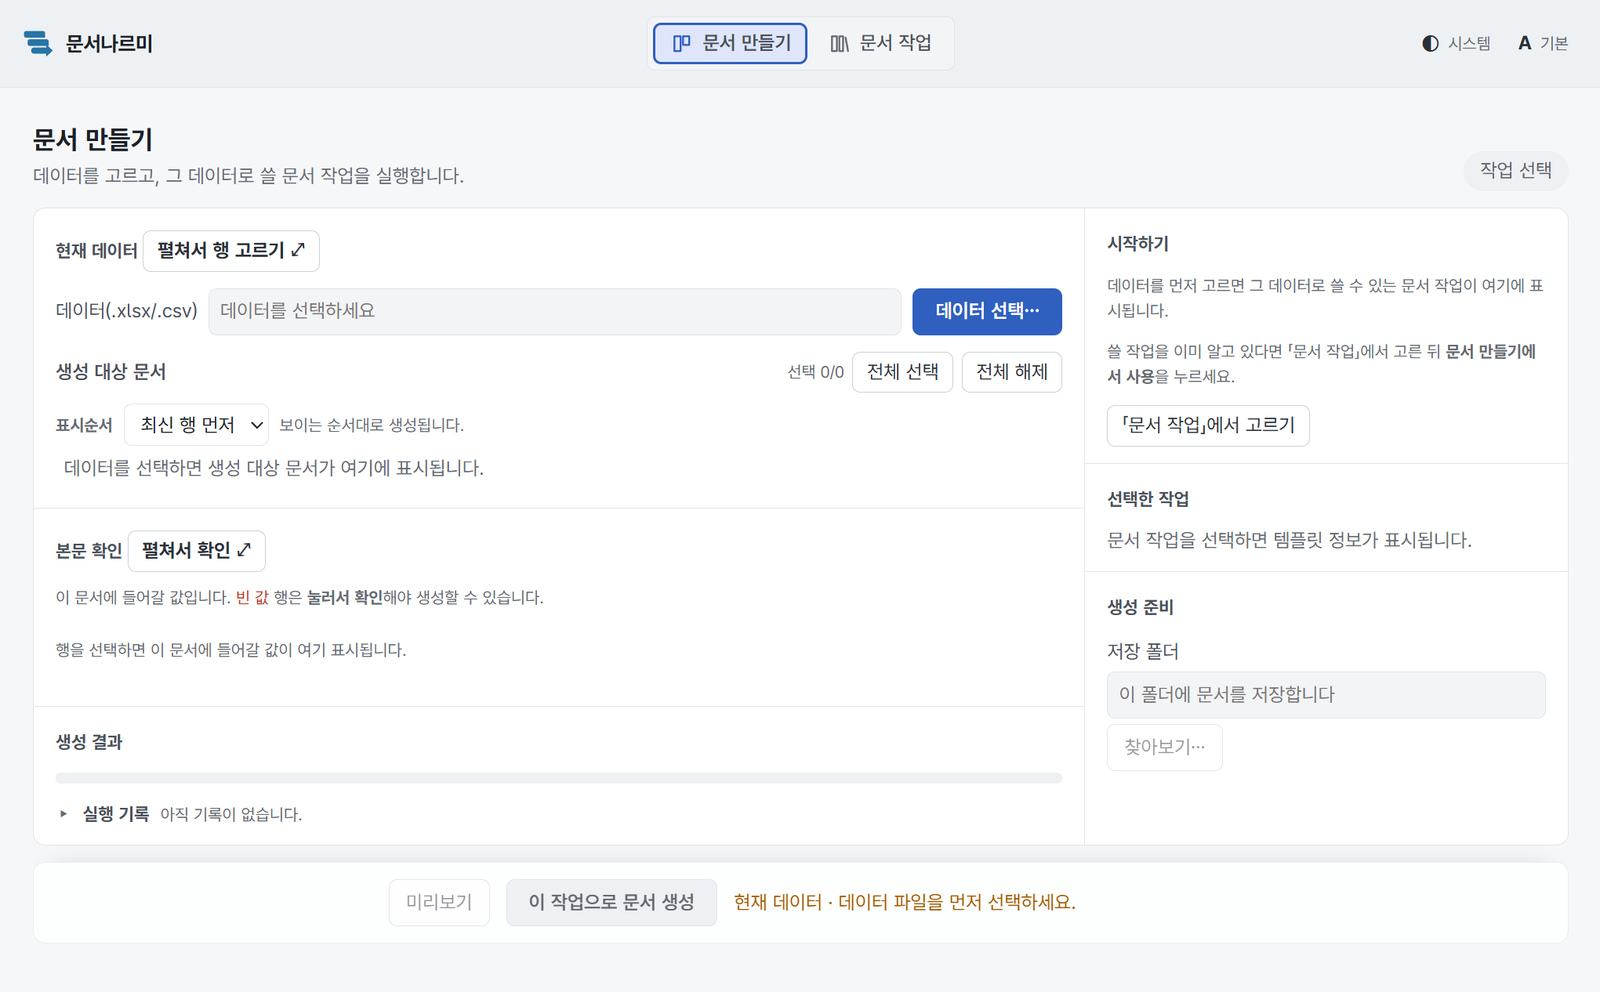
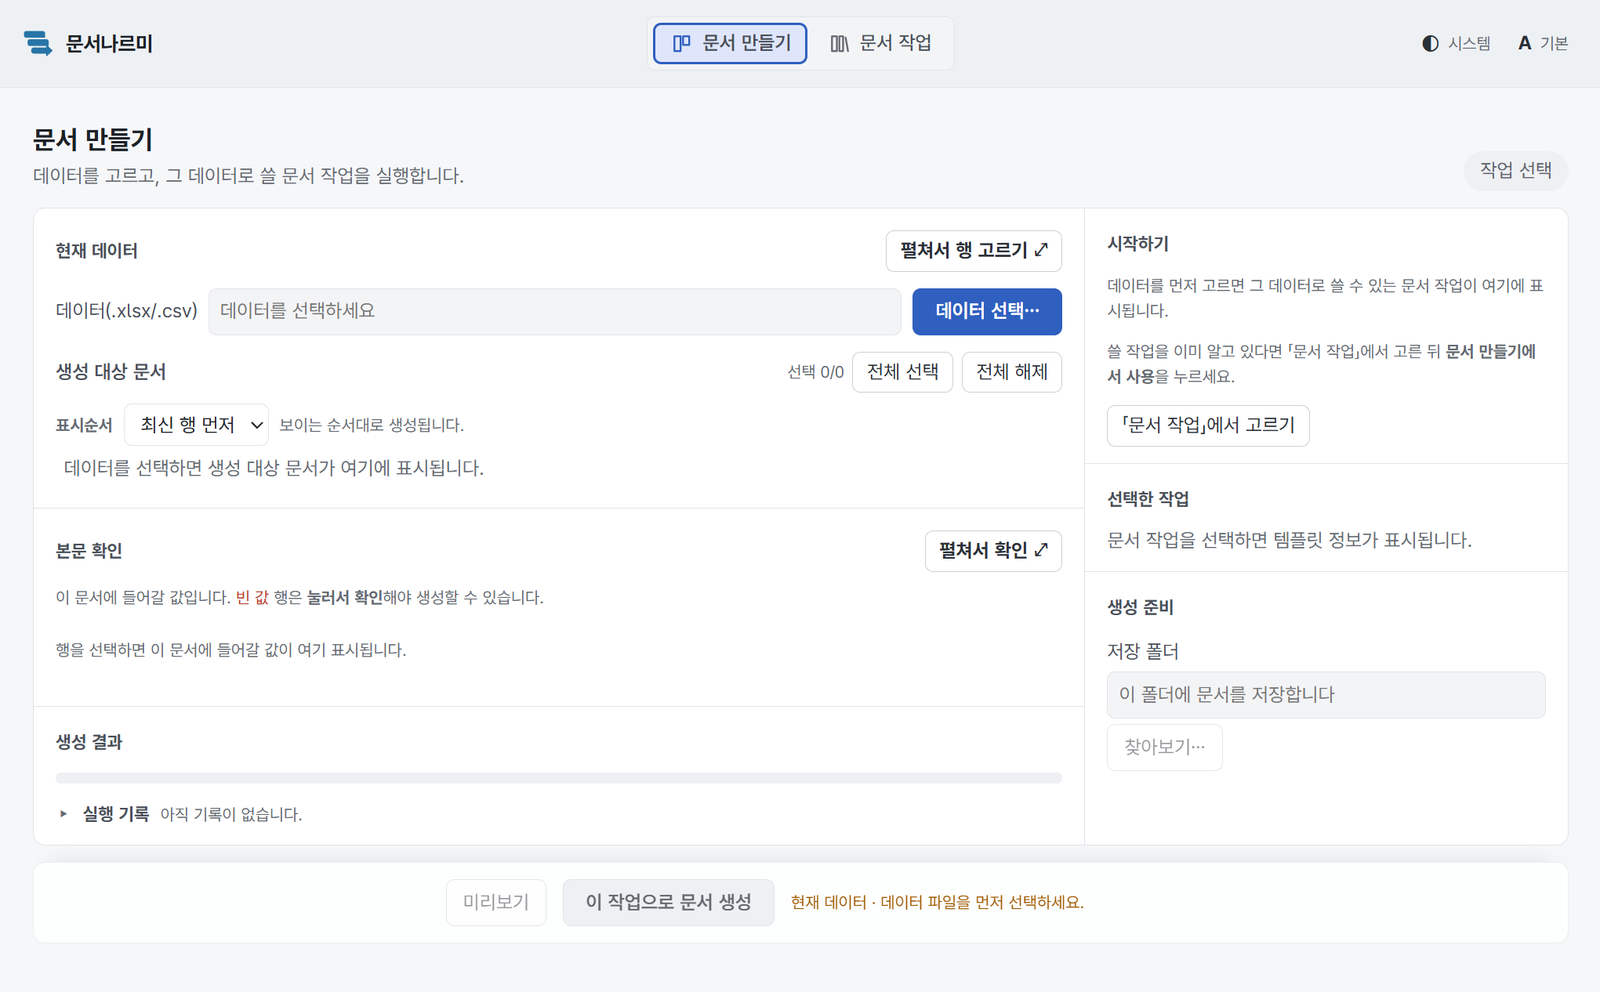
fix: 기준면은 같은 상자로 재고, 빈 문안은 자리도 비운다 (#331)
Codex 리뷰 R5(P2). 앞 커밋이 두 표면에 같은 컬럼 템플릿을 물렸지만 버튼은 여전히 구분선에
닿지 않았다. 실측하니 **원인이 셋**이었고 지적된 「6~16px」은 그 합이었다.

**① 재는 상자가 달랐다**(6px). `.session-actionbar` 는 가로 패딩 16px 안쪽에서 트랙을
계산하고 `.data-grid` 는 거의 전폭에서 계산한다. 가로 패딩을 트랙 밖으로 빼고(`12px 0`),
카드의 좌 여백은 트랙 **안**의 `.actionbar-row` 가 진다.

**② 빈 문안이 자리를 차지했다**(12px). `#jobGate` 는 폭 0 이어도 flex 항목으로 남아 그 앞의
`gap:12px` 이 살아 있었다 — 마지막 버튼만 그만큼 물러선다.

**③ 렌더러가 정적 선언을 지우고 있었다.** `gate.className = "muted"` 가 마크업의
`class="muted capnote"` 를 매 렌더에 덮어써 `capnote` 가 벗겨졌다. ②의 규칙이 붙을 곳이
없던 이유이자, 게이트 문안이 선언과 달리 **캡션 크기가 아닌 채로** 그려지던 이유다.
마크업이 선언한 것을 지운 뒤 그 선언을 근거로 규칙을 짜면 둘 다 거짓이 된다.

실측(구분선 x − 액션바에서 눈에 보이는 마지막 것): 고치기 전 두 폭 모두 버튼 기준 -18px →
고친 뒤 0px. 재캡처한 `08-session-panel` 의 실 픽셀로도 -1px(테두리 1px).

**프로브가 절반만 겨누고 있었다.** 처음엔 `.actionbar-row` 의 **상자**를 쟀는데 ②는 행의
오른쪽 끝을 그대로 두고 버튼만 물리므로 그 측정은 통과한다. 「눈에 보이는 마지막 자식」을
재도록 하고, 게이트 문안이 빈 상태(=생성이 열린 화면)도 함께 잰다. 세 원인을 각각 되돌려
셋 다 단언이 떨어지는 것을 확인했다.

같은 리뷰가 짚은 캡션 ⤢ 자리(#330 조치)도 이 프로브가 함께 지킨다 — 계산된 `display` 와
⤢ 오른쪽 끝 거리. 두 자리 다 규칙은 살아 있고 **어느 쪽이 이기는가**만 갈려 정적 검사가
못 보는 부류다.

Claude-Session: https://claude.ai/code/session_01MfcPFtvGgRnZhoHbowMH4i

diff --git a/web/css/job.css b/web/css/job.css
@@ -72,14 +72,20 @@
    `.data-grid` 의 형제라 패널 전폭인데, 겨누는 행동(미리보기·생성)의 입력은 전부 좌 열에
    있으므로 우 열 폭만큼 밀면 버튼이 자기 입력과 다른 열에 선다. 그래서 두 표면이 같은 컬럼
    템플릿(--data-grid-cols)을 공유하고, 액션바의 내용은 **1열 안에서** 우정렬한다. */
+/* 가로 패딩은 **트랙 밖**이다(리뷰 R5) — 패딩이 있으면 트랙이 패딩 뺀 폭에서 계산돼 1열
+   끝이 실제 구분선보다 6px 앞에서 끝난다(1180·1600px 실측 동일). 같은 템플릿을 공유해도
+   **재는 상자가 다르면** 기준면이 어긋난다. 카드의 좌 여백은 트랙 안의 행이 진다. */
 .session-actionbar{position:sticky;bottom:0;z-index:5;
   display:grid;grid-template-columns:var(--data-grid-cols);
-  margin-top:var(--sp-12);padding:var(--sp-12) var(--sp-16);
+  margin-top:var(--sp-12);padding:var(--sp-12) 0;
   border:1px solid color-mix(in srgb,var(--a-border) 62%,transparent);border-radius:var(--rad-surface);
   box-shadow:0 -8px 18px -14px var(--a-shadow)}
 /* 2열은 비워 둔다 — 행동은 좌 열에 서고 우 side-card 아래를 침범하지 않는다. */
 .actionbar-row{display:flex;align-items:center;gap:var(--sp-12);flex-wrap:wrap;
-  justify-content:flex-end}
+  justify-content:flex-end;padding-left:var(--sp-16)}
+/* 빈 게이트 문안은 **자리도 비운다**(리뷰 R5) — 폭 0 이라도 flex 항목으로 남으면 그 앞의
+   gap(12px)이 살아 마지막 버튼이 기준면에서 그만큼 물러선다. 실측으로 잡힌 자리다. */
+.actionbar-row>.capnote:empty{display:none}
 .bar{height:8px;background:var(--n-track);border-radius:var(--rad-pill);overflow:hidden;margin-top:var(--sp-12)}
 .bar>i{display:block;height:100%;width:0;background:var(--a-primary);transition:width .25s ease}
 .run-result{font-size:var(--fs-body);margin-top:var(--sp-8);font-weight:600;min-height:1.2em}

diff --git a/web/js/screens/job.js b/web/js/screens/job.js
@@ -969,7 +969,11 @@
     $("jobGenBtn").disabled = !g.enabled || generating;
     const gate = $("jobGate");
     gate.textContent = generating ? "" : gateStep(s, g) + g.text;
-    gate.className = "muted";
+    // 정적 선언(`class="muted capnote"`)을 **덮어쓰지 않는다**(리뷰 R5) — 여기서 "muted" 만
+    // 세우면 `capnote`(캡션급 크기)가 매 렌더에 조용히 벗겨지고, 빈 문안이 자리를 비우게 하는
+    // 규칙(`.actionbar-row>.capnote:empty`)도 붙을 곳을 잃는다. 마크업이 선언한 것을 지운 뒤
+    // 그 선언을 근거로 쓰는 규칙을 짜면 둘 다 거짓이 된다.
+    gate.className = "muted capnote";
     gate.style.color = g.level === "danger" ? "var(--a-danger)"
       : g.level === "warn" ? "var(--a-warn)" : "";
   }

diff --git a/src/hwpxfiller/webapp/app.py b/src/hwpxfiller/webapp/app.py
@@ -891,6 +891,52 @@ _JOB_DATA_FIRST_PROBE_JS = r"""
     };
     window.__push('job', snap);
     out.zones_shown = getComputedStyle(document.getElementById('jobZones')).display !== 'none';
+    // 액션바의 정렬 **기준면**은 좌 열의 오른쪽 끝(= 구분선)이다(U2 §2.2 · 리뷰 R5). 같은
+    // 컬럼 템플릿을 공유해도 재는 상자가 다르면(패딩) 트랙 끝이 어긋나는데, 규칙은 둘 다
+    // 맞아 보여 정적 검사가 못 본다. 재는 것은 **눈에 보이는 마지막 것**이지 행의 상자가
+    // 아니다 — 폭 0 인 빈 문안이 flex 항목으로 남으면 그 앞 gap 이 살아 마지막 버튼만
+    // 물러서는데, 행의 오른쪽 끝은 여전히 기준면이라 행을 재면 통과한다.
+    out.actionbar_plane = (function () {
+      var side = document.querySelector('#jobZones .data-grid > .dg-side');
+      var row = document.querySelector('#jobActionBar .actionbar-row');
+      if (!side || !row) return null;
+      var visible = Array.prototype.filter.call(row.children, function (c) {
+        return c.getBoundingClientRect().width > 0;
+      });
+      if (!visible.length) return null;
+      return Math.round(visible[visible.length - 1].getBoundingClientRect().right
+                        - side.getBoundingClientRect().left);
+    })();
+    // 문안이 **빈** 상태도 잰다 — 생성이 열린 화면이 그 상태다. 스냅샷을 바꾸지 않고 문안만
+    // 잠시 비웠다 되돌린다(이 프로브의 다른 측정과 같은 방식).
+    out.actionbar_plane_empty_note = (function () {
+      var note = document.getElementById('jobGate');
+      var side = document.querySelector('#jobZones .data-grid > .dg-side');
+      var row = document.querySelector('#jobActionBar .actionbar-row');
+      if (!note || !side || !row) return null;
+      var saved = note.textContent;
+      note.textContent = '';
+      var visible = Array.prototype.filter.call(row.children, function (c) {
+        return c.getBoundingClientRect().width > 0;
+      });
+      var gap = visible.length
+        ? Math.round(visible[visible.length - 1].getBoundingClientRect().right
+                     - side.getBoundingClientRect().left)
+        : null;
+      note.textContent = saved;
+      return gap;
+    })();
+    // 행동이 붙은 캡션(⤢)은 **오른쪽 끝**에 선다(리뷰 R5) — `.zone-cap{display:block}` 이
+    // 곁의 `.zone-cap-actions{display:flex}` 를 덮으면 ⤢ 가 제목 바로 뒤에 붙는데, 규칙은
+    // 둘 다 살아 있어 정적 검사로는 안 보인다(같은 특정도·나중 로드가 이기는 자리).
+    out.cap_actions = (function () {
+      var cap = document.querySelector('#jobZones .zone-cap.zone-cap-actions');
+      var btn = cap && cap.querySelector('button');
+      if (!cap || !btn) return null;
+      return {display: getComputedStyle(cap).display,
+              far_edge: Math.round(cap.getBoundingClientRect().right
+                                   - btn.getBoundingClientRect().right)};
+    })();
     // 행동이 붙은 캡션(⤢)은 **오른쪽 끝**에 선다(리뷰 R5) — `.zone-cap{display:block}` 이
     // 곁의 `.zone-cap-actions{display:flex}` 를 덮으면 ⤢ 가 제목 바로 뒤에 붙는데, 규칙은
     // 둘 다 살아 있어 정적 검사로는 안 보인다(같은 특정도·나중 로드가 이기는 자리).

diff --git a/tests/test_web_selftest_gate.py b/tests/test_web_selftest_gate.py
@@ -472,6 +472,29 @@ class TestWebSelftestGate:
         j = selftest_result["job_data_first"]
         assert j.get("error") is None, f"data-first 프로브 예외: {j.get('error')!r}"
         assert j["zones_shown"] and j["actionbar_shown"], "무작업 상태에서 세션 존이 죽어 있습니다."
+        # 액션바는 좌 열의 오른쪽 끝(구분선)에 맞춰 선다(U2 §2.2 · 리뷰 R5) — 같은 템플릿을
+        # 공유해도 **재는 상자**가 다르면 어긋나므로 실 좌표로 잰다.
+        assert j["actionbar_plane"] is not None, "액션바·구분선을 못 찾았습니다 — 프로브 겨눔 소실."
+        assert abs(j["actionbar_plane"]) <= 1, (
+            f"액션바에서 **눈에 보이는 마지막 것**이 구분선에서 {j['actionbar_plane']}px "
+            "어긋났습니다 — 기준면 불일치(행의 상자가 아니라 보이는 끝이 기준이다)."
+        )
+        # 게이트 문안이 빈 상태(=생성이 열린 화면)에서도 같다 — 빈 문안이 자리를 안 비우면
+        # 그 앞 gap 이 살아 마지막 버튼만 물러선다(실측 12px).
+        assert abs(j["actionbar_plane_empty_note"]) <= 1, (
+            f"빈 게이트 문안이 자리를 차지해 버튼이 {j['actionbar_plane_empty_note']}px "
+            "물러섰습니다 — 폭 0 이어도 flex 항목이면 앞의 gap 이 남습니다."
+        )
+        # 행동이 붙은 캡션의 ⤢ 는 오른쪽 끝이다(리뷰 R5) — 규칙은 둘 다 살아 있고 **어느 쪽이
+        # 이기는가**만 갈리는 자리라 정적 검사가 못 본다.
+        cap = j["cap_actions"]
+        assert cap, "행동 캡션(.zone-cap-actions)을 찾지 못했습니다 — 프로브 겨눔 소실."
+        assert cap["display"] == "flex", (
+            f"행동 캡션이 flex 를 잃었습니다({cap['display']!r}) — 블록 규칙이 곁의 규칙을 덮었습니다."
+        )
+        assert abs(cap["far_edge"]) <= 1, (
+            f"⤢ 가 캡션 오른쪽 끝에서 {cap['far_edge']}px 떨어져 있습니다 — 제목 옆에 붙었습니다."
+        )
         # 행동이 붙은 캡션의 ⤢ 는 오른쪽 끝이다(리뷰 R5) — 규칙은 둘 다 살아 있고 **어느 쪽이
         # 이기는가**만 갈리는 자리라 정적 검사가 못 본다.
         cap = j["cap_actions"]

diff --git a/tests/test_web_dom_contract.py b/tests/test_web_dom_contract.py
@@ -431,7 +431,14 @@ def test_milestone_l_job_density_and_expansion_sheets():
     assert ".data-grid{display:grid;grid-template-columns:var(--data-grid-cols)}" in css
     assert ".session-actionbar{position:sticky;bottom:0;z-index:5;display:grid;" in css
     assert "grid-template-columns:var(--data-grid-cols);" in css
-    assert ".actionbar-row{display:flex;align-items:center;gap:var(--sp-12);flex-wrap:wrap;justify-content:flex-end}" in css
+    # 가로 패딩은 **트랙 밖**이다(리뷰 R5): 패딩이 트랙 안에 있으면 액션바가 패딩 뺀 폭에서
+    # 트랙을 계산해 1열 끝이 구분선보다 6px 앞에서 끝난다 — 같은 템플릿을 공유해도 **재는
+    # 상자**가 다르면 기준면이 어긋난다. 카드의 좌 여백은 트랙 안의 행이 진다.
+    assert "margin-top:var(--sp-12);padding:var(--sp-12)0;" in css
+    assert (
+        ".actionbar-row{display:flex;align-items:center;gap:var(--sp-12);flex-wrap:wrap;"
+        "justify-content:flex-end;padding-left:var(--sp-16)}"
+    ) in css
     assert '<div class="actionbar-row">' in html, (
         "액션바 내용을 감싸지 않으면 자식들이 두 열에 흩어진다."
     )
